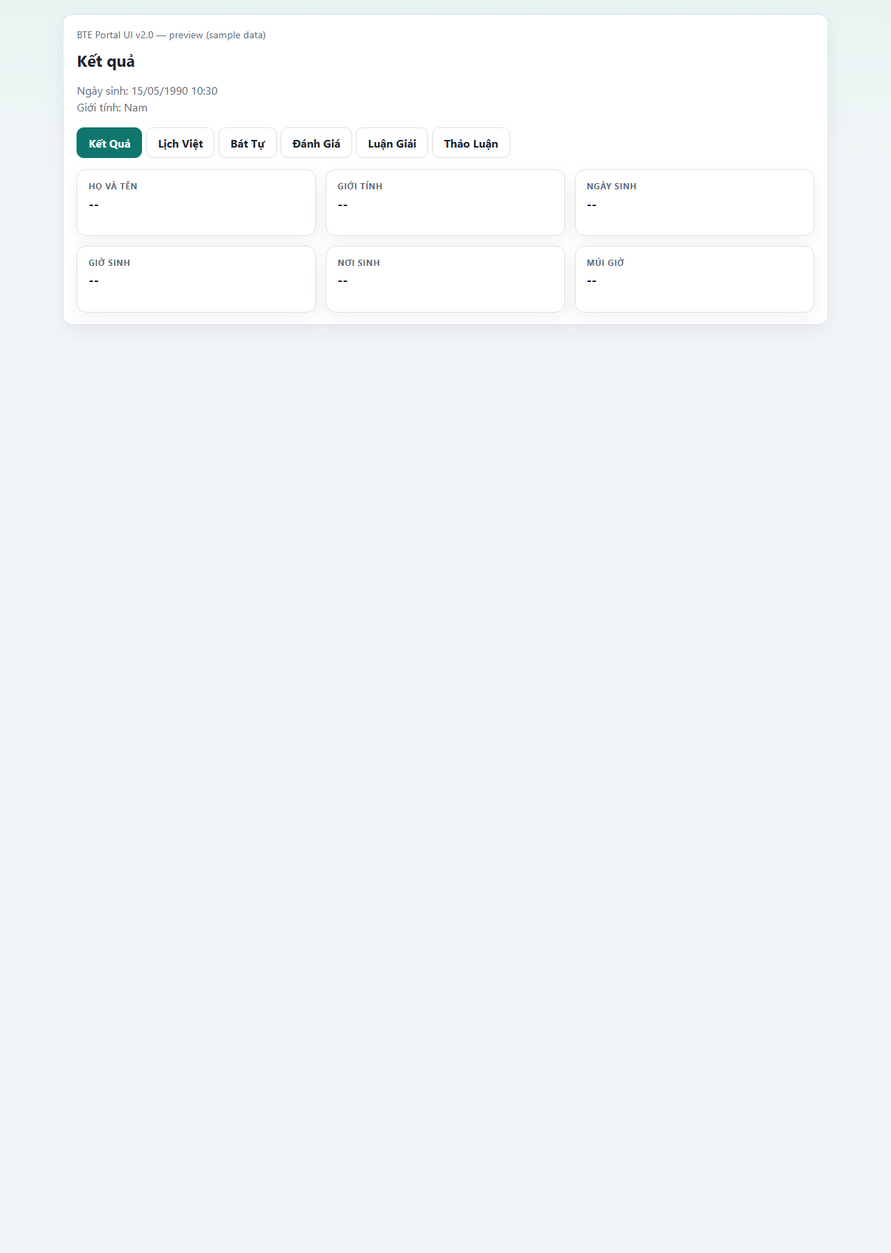
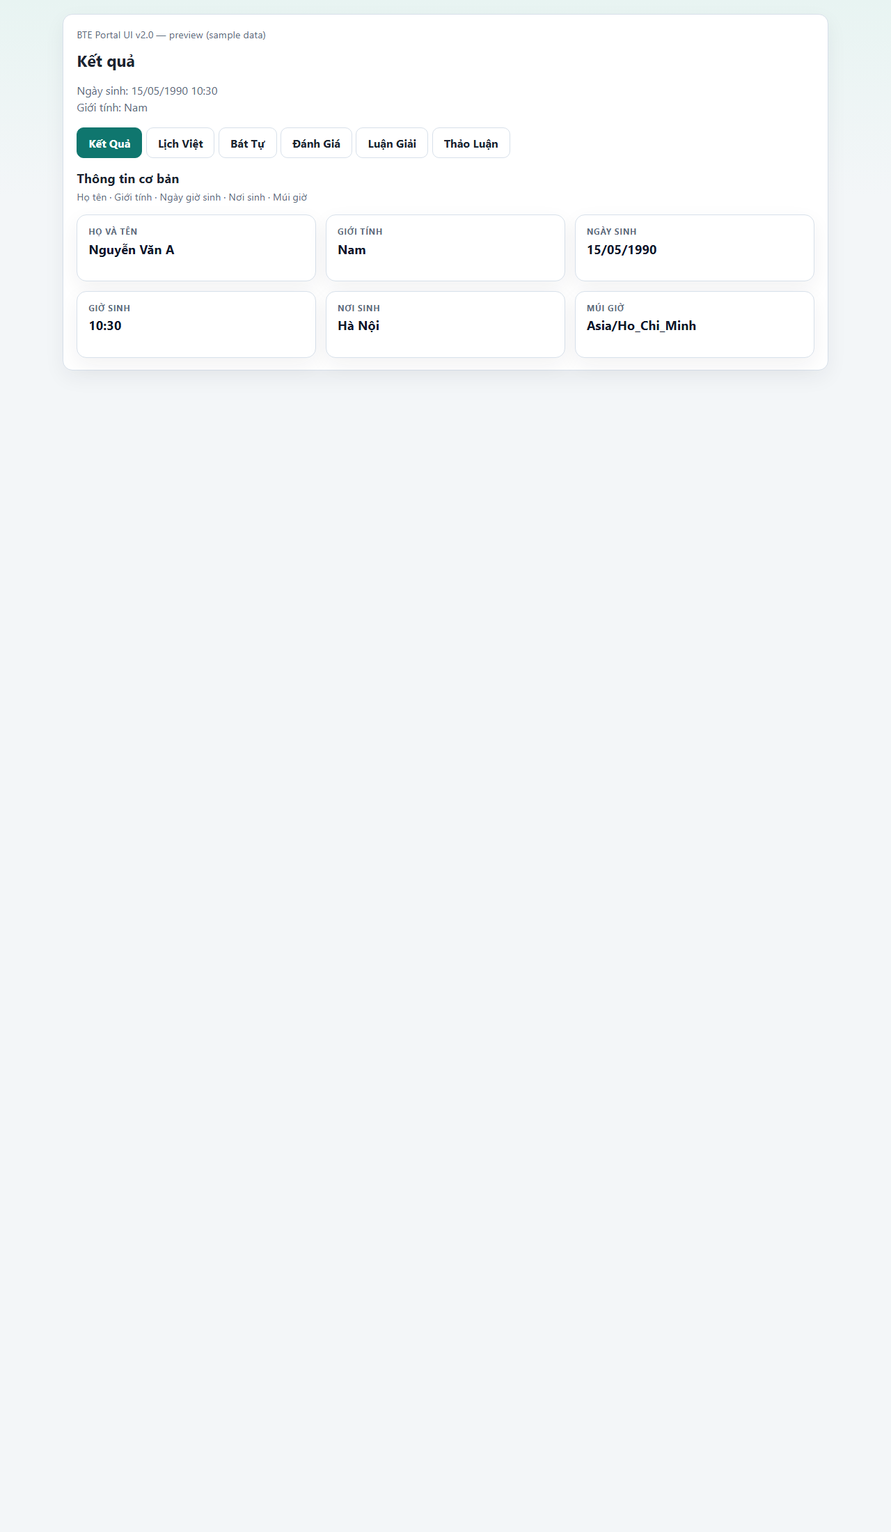
Use explicit window refs and refresh UI previews
Qualify global presenter/summarizer uses with window (basic_info.js, bazi.js, calendar.js, discussion.js) to avoid ReferenceError in strict/isolated contexts. Refresh UI v2 preview pages and screenshots (tab_basic.html, tab_bazi.html, tab_calendar.html, tab_discussion.html and related PNGs) with richer sample content, ARIA labels, headers and improved discussion/bazi/calendar fixtures for better accessibility and realistic documentation previews.

Changed region(s): [[0.0625, 0.0, 0.4688, 0.2178], [0.6562, 0.1244, 0.7812, 0.2178], [0.5, 0.0933, 0.5625, 0.1244]]

diff --git a/docs/reports/ui_v2_preview/tab_bazi.html b/docs/reports/ui_v2_preview/tab_bazi.html
@@ -1657,7 +1657,7 @@ body{padding:1.25rem;}
   <p class="muted result-meta-friendly">Ngày sinh: 15/05/1990 10:30
 Giới tính: Nam</p>
   <div class="tabs"><button class="tab" type="button">Kết Quả</button><button class="tab" type="button">Lịch Việt</button><button class="tab active" type="button">Bát Tự</button><button class="tab" type="button">Đánh Giá</button><button class="tab" type="button">Luận Giải</button><button class="tab" type="button">Thảo Luận</button></div>
-  <div class="stage-view"><section class="bte-bazi"><div class="bte-card-grid"><article class="bte-card bte-bazi-summary"><div class="bte-card-label">Nhật Chủ</div><div class="bte-card-value">--</div></article><article class="bte-card bte-bazi-summary"><div class="bte-card-label">Ngũ Hành Nhật Chủ</div><div class="bte-card-value">--</div></article><article class="bte-card bte-bazi-summary"><div class="bte-card-label">Âm Dương</div><div class="bte-card-value">--</div></article><article class="bte-card bte-bazi-summary"><div class="bte-card-label">Cân Xương Đoán Mệnh</div><div class="bte-card-value">--</div></article></div></section></div>
+  <div class="stage-view"><section class="bte-bazi" aria-label="Bát Tự"><header class="bte-calendar-head"><h2>Bát Tự</h2><p class="bte-calendar-sub">Nhật chủ · Tứ trụ · Phân tích · Thập thần · Thần sát</p></header><h3 class="bte-section-title">Tóm tắt</h3><div class="bte-card-grid bte-bazi-summary-grid"><article class="bte-card bte-bazi-summary bte-el-fire"><div class="bte-card-label">Nhật Chủ</div><div class="bte-card-value">Bính</div></article><article class="bte-card bte-bazi-summary bte-el-fire"><div class="bte-card-label">Ngũ Hành Nhật Chủ</div><div class="bte-card-value">Hỏa</div></article><article class="bte-card bte-bazi-summary"><div class="bte-card-label">Âm Dương</div><div class="bte-card-value">Dương</div></article><article class="bte-card bte-bazi-summary"><div class="bte-card-label">Cân Xương Đoán Mệnh</div><div class="bte-card-value">--</div></article></div><h3 class="bte-section-title">Tứ trụ</h3><div class="bte-pillar-grid"><article class="bte-card bte-pillar-card bte-el-metal"><div class="bte-pillar-head"><div class="bte-card-label">Năm</div><div class="bte-pillar-pair">Canh · Ngọ</div></div><div class="bte-bazi-rows"><div class="bte-bazi-row"><span class="bte-bazi-row-label">Thiên Can</span><span class="bte-bazi-row-value"><span class="bte-el-badge bte-el-metal">Canh (Kim)</span></span></div><div class="bte-bazi-row"><span class="bte-bazi-row-label">Địa Chi</span><span class="bte-bazi-row-value"><span class="bte-el-badge bte-el-fire">Ngọ (Hỏa)</span></span></div><div class="bte-bazi-row"><span class="bte-bazi-row-label">Tàng Can</span><span class="bte-bazi-row-value">Đinh, Kỷ</span></div><div class="bte-bazi-row"><span class="bte-bazi-row-label">Thập Thần</span><span class="bte-bazi-row-value">Thất Sát</span></div><div class="bte-bazi-row"><span class="bte-bazi-row-label">Trường Sinh</span><span class="bte-bazi-row-value">Đế Vượng</span></div><div class="bte-bazi-row"><span class="bte-bazi-row-label">Nạp Âm</span><span class="bte-bazi-row-value">Lộ Bàng Thổ</span></div></div></article><article class="bte-card bte-pillar-card bte-el-wood"><div class="bte-pillar-head"><div class="bte-card-label">Tháng</div><div class="bte-pillar-pair">Ất · Tỵ</div></div><div class="bte-bazi-rows"><div class="bte-bazi-row"><span class="bte-bazi-row-label">Thiên Can</span><span class="bte-bazi-row-value"><span class="bte-el-badge bte-el-wood">Ất (Mộc)</span></span></div><div class="bte-bazi-row"><span class="bte-bazi-row-label">Địa Chi</span><span class="bte-bazi-row-value"><span class="bte-el-badge bte-el-fire">Tỵ (Hỏa)</span></span></div><div class="bte-bazi-row"><span class="bte-bazi-row-label">Tàng Can</span><span class="bte-bazi-row-value">Bính, Mậu, Canh</span></div><div class="bte-bazi-row"><span class="bte-bazi-row-label">Thập Thần</span><span class="bte-bazi-row-value">Thương Quan</span></div><div class="bte-bazi-row"><span class="bte-bazi-row-label">Trường Sinh</span><span class="bte-bazi-row-value">Lâm Quan</span></div><div class="bte-bazi-row"><span class="bte-bazi-row-label">Nạp Âm</span><span class="bte-bazi-row-value">Phúc Đăng Hỏa</span></div></div></article><article class="bte-card bte-pillar-card bte-el-fire"><div class="bte-pillar-head"><div class="bte-card-label">Ngày</div><div class="bte-pillar-pair">Bính · Ngọ</div></div><div class="bte-bazi-rows"><div class="bte-bazi-row"><span class="bte-bazi-row-label">Thiên Can</span><span class="bte-bazi-row-value"><span class="bte-el-badge bte-el-fire">Bính (Hỏa)</span></span></div><div class="bte-bazi-row"><span class="bte-bazi-row-label">Địa Chi</span><span class="bte-bazi-row-value"><span class="bte-el-badge bte-el-fire">Ngọ (Hỏa)</span></span></div><div class="bte-bazi-row"><span class="bte-bazi-row-label">Tàng Can</span><span class="bte-bazi-row-value">Đinh, Kỷ</span></div><div class="bte-bazi-row"><span class="bte-bazi-row-label">Thập Thần</span><span class="bte-bazi-row-value">Tỷ Kiên</span></div><div class="bte-bazi-row"><span class="bte-bazi-row-label">Trường Sinh</span><span class="bte-bazi-row-value">Đế Vượng</span></div><div class="bte-bazi-row"><span class="bte-bazi-row-label">Nạp Âm</span><span class="bte-bazi-row-value">Thiên Hà Thủy</span></div></div></article><article class="bte-card bte-pillar-card bte-el-water"><div class="bte-pillar-head"><div class="bte-card-label">Giờ</div><div class="bte-pillar-pair">Quý · Tỵ</div></div><div class="bte-bazi-rows"><div class="bte-bazi-row"><span class="bte-bazi-row-label">Thiên Can</span><span class="bte-bazi-row-value"><span class="bte-el-badge bte-el-water">Quý (Thủy)</span></span></div><div class="bte-bazi-row"><span class="bte-bazi-row-label">Địa Chi</span><span class="bte-bazi-row-value"><span class="bte-el-badge bte-el-fire">Tỵ (Hỏa)</span></span></div><div class="bte-bazi-row"><span class="bte-bazi-row-label">Tàng Can</span><span class="bte-bazi-row-value">Bính, Mậu, Canh</span></div><div class="bte-bazi-row"><span class="bte-bazi-row-label">Thập Thần</span><span class="bte-bazi-row-value">Chính Ấn</span></div><div class="bte-bazi-row"><span class="bte-bazi-row-label">Trường Sinh</span><span class="bte-bazi-row-value">Thai</span></div><div class="bte-bazi-row"><span class="bte-bazi-row-label">Nạp Âm</span><span class="bte-bazi-row-value">Trường Lưu Thủy</span></div></div></article></div><h3 class="bte-section-title">Phân tích Bát Tự</h3><div class="bte-card-grid bte-bazi-analysis-grid"><article class="bte-card"><div class="bte-card-label">Thân Vượng / Nhược</div><div class="bte-card-value">Thân Vượng</div></article><article class="bte-card bte-el-dist-card"><div class="bte-card-label">Phân bố Ngũ Hành</div><div class="bte-el-bars"><div class="bte-el-bar-row bte-el-wood"><span class="bte-el-bar-label">Wood</span><span class="bte-el-bar-blocks" aria-hidden="true">■■</span><div class="bte-el-bar-track"><div class="bte-el-bar-fill" style="width:29%"></div></div><span class="bte-el-bar-value">2</span></div><div class="bte-el-bar-row bte-el-fire"><span class="bte-el-bar-label">Fire</span><span class="bte-el-bar-blocks" aria-hidden="true">■■■■■■■</span><div class="bte-el-bar-track"><div class="bte-el-bar-fill" style="width:100%"></div></div><span class="bte-el-bar-value">7</span></div><div class="bte-el-bar-row bte-el-earth"><span class="bte-el-bar-label">Earth</span><span class="bte-el-bar-blocks" aria-hidden="true">■■■■</span><div class="bte-el-bar-track"><div class="bte-el-bar-fill" style="width:57%"></div></div><span class="bte-el-bar-value">4</span></div><div class="bte-el-bar-row bte-el-metal"><span class="bte-el-bar-label">Metal</span><span class="bte-el-bar-blocks" aria-hidden="true">■■■</span><div class="bte-el-bar-track"><div class="bte-el-bar-fill" style="width:43%"></div></div><span class="bte-el-bar-value">3</span></div><div class="bte-el-bar-row bte-el-water"><span class="bte-el-bar-label">Water</span><span class="bte-el-bar-blocks" aria-hidden="true">■</span><div class="bte-el-bar-track"><div class="bte-el-bar-fill" style="width:14%"></div></div><span class="bte-el-bar-value">1</span></div></div></article><article class="bte-card"><div class="bte-card-label">Dụng Thần</div><div class="bte-card-value">Thủy</div></article><article class="bte-card"><div class="bte-card-label">Hỷ Thần</div><div class="bte-card-value">Kim</div></article></div><h3 class="bte-section-title">Thập Thần</h3><div class="bte-card bte-checklist-card"><ul class="bte-checklist"><li class="bte-check bte-check-neg" data-state="absent"><span class="bte-check-mark" aria-hidden="true">✗</span><span class="bte-check-label">Chính Quan</span></li><li class="bte-check bte-check-pos" data-state="present"><span class="bte-check-mark" aria-hidden="true">✓</span><span class="bte-check-label">Thất Sát</span></li><li class="bte-check bte-check-neg" data-state="absent"><span class="bte-check-mark" aria-hidden="true">✗</span><span class="bte-check-label">Chính Tài</span></li><li class="bte-check bte-check-neg" data-state="absent"><span class="bte-check-mark" aria-hidden="true">✗</span><span class="bte-check-label">Thiên Tài</span></li><li class="bte-check bte-check-pos" data-state="present"><span class="bte-check-mark" aria-hidden="true">✓</span><span class="bte-check-label">Chính Ấn</span></li><li class="bte-check bte-check-neg" data-state="absent"><span class="bte-check-mark" aria-hidden="true">✗</span><span class="bte-check-label">Thiên Ấn</span></li><li class="bte-check bte-check-neg" data-state="absent"><span class="bte-check-mark" aria-hidden="true">✗</span><span class="bte-check-label">Thực Thần</span></li><li class="bte-check bte-check-pos" data-state="present"><span class="bte-check-mark" aria-hidden="true">✓</span><span class="bte-check-label">Thương Quan</span></li><li class="bte-check bte-check-pos" data-state="present"><span class="bte-check-mark" aria-hidden="true">✓</span><span class="bte-check-label">Tỷ Kiên</span></li><li class="bte-check bte-check-neg" data-state="absent"><span class="bte-check-mark" aria-hidden="true">✗</span><span class="bte-check-label">Kiếp Tài</span></li></ul></div><h3 class="bte-section-title">Thần Sát</h3><div class="bte-card bte-checklist-card"><ul class="bte-checklist"><li class="bte-check bte-check-pos" data-state="present"><span class="bte-check-mark" aria-hidden="true">✓</span><span class="bte-check-label">Hoa Cái</span></li><li class="bte-check bte-check-pos" data-state="present"><span class="bte-check-mark" aria-hidden="true">✓</span><span class="bte-check-label">Thiên Ất</span></li><li class="bte-check bte-check-pos" data-state="present"><span class="bte-check-mark" aria-hidden="true">✓</span><span class="bte-check-label">Văn Xương</span></li><li class="bte-check bte-check-pos" data-state="present"><span class="bte-check-mark" aria-hidden="true">✓</span><span class="bte-check-label">Quốc Ấn</span></li><li class="bte-check bte-check-neg" data-state="absent"><span class="bte-check-mark" aria-hidden="true">✗</span><span class="bte-check-label">Dịch Mã</span></li><li class="bte-check bte-check-neg" data-state="absent"><span class="bte-check-mark" aria-hidden="true">✗</span><span class="bte-check-label">Cô Thần</span></li><li class="bte-check bte-check-neg" data-state="absent"><span class="bte-check-mark" aria-hidden="true">✗</span><span class="bte-check-label">Quả Tú</span></li><li class="bte-check bte-check-neg" data-state="absent"><span class="bte-check-mark" aria-hidden="true">✗</span><span class="bte-check-label">Thiên Đức</span></li><li class="bte-check bte-check-neg" data-state="absent"><span class="bte-check-mark" aria-hidden="true">✗</span><span class="bte-check-label">Nguyệt Đức</span></li><li class="bte-check bte-check-neg" data-state="absent"><span class="bte-check-mark" aria-hidden="true">✗</span><span class="bte-check-label">Hồng Loan</span></li><li class="bte-check bte-check-neg" data-state="absent"><span class="bte-check-mark" aria-hidden="true">✗</span><span class="bte-check-label">Đào Hoa</span></li><li class="bte-check bte-check-neg" data-state="absent"><span class="bte-check-mark" aria-hidden="true">✗</span><span class="bte-check-label">Quý Nhân</span></li><li class="bte-check bte-check-neg" data-state="absent"><span class="bte-check-mark" aria-hidden="true">✗</span><span class="bte-check-label">Kiếp Sát</span></li></ul></div></section></div>
 </div>
 </body>
 </html>

diff --git a/docs/reports/ui_v2_preview/tab_discussion.html b/docs/reports/ui_v2_preview/tab_discussion.html
@@ -1657,7 +1657,9 @@ body{padding:1.25rem;}
   <p class="muted result-meta-friendly">Ngày sinh: 15/05/1990 10:30
 Giới tính: Nam</p>
   <div class="tabs"><button class="tab" type="button">Kết Quả</button><button class="tab" type="button">Lịch Việt</button><button class="tab" type="button">Bát Tự</button><button class="tab" type="button">Đánh Giá</button><button class="tab" type="button">Luận Giải</button><button class="tab active" type="button">Thảo Luận</button></div>
-  <div class="stage-view"><div class="bte-discussion"><p class="muted">--</p></div></div>
+  <div class="stage-view"><div class="bte-discussion"><section class="bte-card bte-discuss-context" aria-label="Ngữ cảnh phân tích"><h3>Ngữ cảnh phân tích</h3><p class="muted">Các kết luận bên dưới nên được đọc cùng ngữ cảnh Tứ trụ, Ngũ hành, Thập thần, Thần sát và Dụng thần.</p><div class="bte-discuss-chips"><div class="bte-discuss-chip"><span class="bte-discuss-chip-k">Năm</span><span class="bte-discuss-chip-v">Canh Ngọ</span></div><div class="bte-discuss-chip"><span class="bte-discuss-chip-k">Tháng</span><span class="bte-discuss-chip-v">Ất Tỵ</span></div><div class="bte-discuss-chip"><span class="bte-discuss-chip-k">Ngày</span><span class="bte-discuss-chip-v">Bính Ngọ</span></div><div class="bte-discuss-chip"><span class="bte-discuss-chip-k">Giờ</span><span class="bte-discuss-chip-v">Quý Tỵ</span></div><div class="bte-discuss-chip"><span class="bte-discuss-chip-k">Nhật chủ / Ngũ hành</span><span class="bte-discuss-chip-v">Bính · Hỏa</span></div><div class="bte-discuss-chip"><span class="bte-discuss-chip-k">Thập thần</span><span class="bte-discuss-chip-v">Thất Sát, Thương Quan, Tỷ Kiên, Chính Ấn</span></div><div class="bte-discuss-chip"><span class="bte-discuss-chip-k">Thần sát</span><span class="bte-discuss-chip-v">Hoa Cái, Thiên Ất, Văn Xương, Quốc Ấn</span></div><div class="bte-discuss-chip"><span class="bte-discuss-chip-k">Dụng thần</span><span class="bte-discuss-chip-v">Thủy</span></div></div></section><section class="bte-narr" aria-label="Thảo Luận"><textarea class="bte-narr-copy-source" hidden readonly>Kết luận ngắn
+
+Dựa trên Tứ trụ Bính Ngọ và Ngũ hành Hỏa thịnh, kết hợp Thập thần Thất Sát/Chính Ấn cùng Thần sát Hoa Cái · Văn Xương, Dụng thần Thủy giúp điều hòa cục diện.</textarea><header class="bte-calendar-head"><h2>Thảo Luận</h2><p class="bte-calendar-sub">Luận giải AI dựa trên Tứ trụ · Ngũ hành · Thập thần · Thần sát · Dụng thần</p></header><div class="bte-narr-toolbar no-print"><button type="button" class="secondary" data-narr-action="copy">Sao chép</button><button type="button" class="secondary" data-narr-action="print">In</button><button type="button" class="secondary" data-narr-action="collapse-all">Thu gọn tất cả</button><button type="button" class="secondary" data-narr-action="expand-all">Mở rộng tất cả</button></div><h1 class="bte-narr-title">Thảo luận AI</h1><article class="bte-narr-report"><section class="bte-narr-section" data-narr-section="narr-ket-luan-ngan-0"><header class="bte-narr-section-head"><h2 id="narr-ket-luan-ngan-0">Kết luận ngắn</h2><button type="button" class="bte-narr-toggle secondary" data-narr-toggle="narr-ket-luan-ngan-0" aria-expanded="true">Thu gọn</button></header><div class="bte-narr-section-body" data-narr-body="narr-ket-luan-ngan-0"><p class="bte-narr-highlight">Dựa trên <strong>Tứ trụ</strong> Bính Ngọ và <strong>Ngũ hành</strong> Hỏa thịnh, kết hợp <strong>Thập thần</strong> Thất Sát/Chính Ấn cùng <strong>Thần sát</strong> Hoa Cái · Văn Xương, <strong>Dụng thần</strong> Thủy giúp điều hòa cục diện.</p></div></section></article></section></div></div>
 </div>
 </body>
 </html>

diff --git a/docs/reports/ui_v2_preview/tab_calendar.html b/docs/reports/ui_v2_preview/tab_calendar.html
@@ -1657,7 +1657,11 @@ body{padding:1.25rem;}
   <p class="muted result-meta-friendly">Ngày sinh: 15/05/1990 10:30
 Giới tính: Nam</p>
   <div class="tabs"><button class="tab" type="button">Kết Quả</button><button class="tab active" type="button">Lịch Việt</button><button class="tab" type="button">Bát Tự</button><button class="tab" type="button">Đánh Giá</button><button class="tab" type="button">Luận Giải</button><button class="tab" type="button">Thảo Luận</button></div>
-  <div class="stage-view"><section class="bte-calendar"><div class="bte-card-grid"><article class="bte-card"><div class="bte-card-label">Ngày dương</div><div class="bte-card-value">--</div></article><article class="bte-card"><div class="bte-card-label">Ngày âm</div><div class="bte-card-value">--</div></article><article class="bte-card"><div class="bte-card-label">Lịch Can – Chi</div><div class="bte-card-value">--</div></article><article class="bte-card"><div class="bte-card-label">Tiết khí</div><div class="bte-card-value">--</div></article><article class="bte-card"><div class="bte-card-label">Cung / Mệnh Quái</div><div class="bte-card-value">--</div></article><article class="bte-card"><div class="bte-card-label">Ngũ Hành Cung Quái</div><div class="bte-card-value">--</div></article><article class="bte-card"><div class="bte-card-label">Nhóm Trạch</div><div class="bte-card-value">--</div></article><article class="bte-card"><div class="bte-card-label">Múi giờ</div><div class="bte-card-value">--</div></article><article class="bte-card"><div class="bte-card-label">Tháng nhuận</div><div class="bte-card-value">--</div></article></div></section></div>
+  <div class="stage-view"><section class="bte-calendar" aria-label="Lịch Việt"><header class="bte-calendar-head"><h2>Lịch Việt</h2><p class="bte-calendar-sub">Dương lịch · Âm lịch · Can Chi · Tiết khí · Cung quái</p></header><div class="bte-card-grid"><article class="bte-card"><div class="bte-card-label">Ngày dương</div><div class="bte-card-value">15/05/1990
+10:30</div><div class="bte-card-hint">Ngày dương lịch</div></article><article class="bte-card"><div class="bte-card-label">Ngày âm</div><div class="bte-card-value">21/04 Canh Ngọ</div><div class="bte-card-hint">Ngày âm lịch</div></article><article class="bte-card"><div class="bte-card-label">Lịch Can – Chi</div><div class="bte-card-value">Năm: Canh Ngọ
+Tháng: Ất Tỵ
+Ngày: Bính Ngọ
+Giờ: Quý Tỵ</div></article><article class="bte-card"><div class="bte-card-label">Tiết khí</div><div class="bte-card-value">Lập Hạ</div><div class="bte-card-hint">Tiết khí</div></article><article class="bte-card"><div class="bte-card-label">Cung / Mệnh Quái</div><div class="bte-card-value">Đoài</div></article><article class="bte-card"><div class="bte-card-label">Ngũ Hành Cung Quái</div><div class="bte-card-value">Đoài (Kim)</div></article><article class="bte-card"><div class="bte-card-label">Nhóm Trạch</div><div class="bte-card-value">Tây Tứ Trạch</div></article><article class="bte-card"><div class="bte-card-label">Múi giờ</div><div class="bte-card-value">Asia/Ho_Chi_Minh</div><div class="bte-card-hint">Múi giờ</div></article><article class="bte-card"><div class="bte-card-label">Tháng nhuận</div><div class="bte-card-value">Không</div><div class="bte-card-hint">Không nhuận</div></article></div></section></div>
 </div>
 </body>
 </html>

diff --git a/docs/reports/ui_v2_preview/tab_basic.html b/docs/reports/ui_v2_preview/tab_basic.html
@@ -1657,7 +1657,7 @@ body{padding:1.25rem;}
   <p class="muted result-meta-friendly">Ngày sinh: 15/05/1990 10:30
 Giới tính: Nam</p>
   <div class="tabs"><button class="tab active" type="button">Kết Quả</button><button class="tab" type="button">Lịch Việt</button><button class="tab" type="button">Bát Tự</button><button class="tab" type="button">Đánh Giá</button><button class="tab" type="button">Luận Giải</button><button class="tab" type="button">Thảo Luận</button></div>
-  <div class="stage-view"><section class="bte-basic"><div class="bte-card-grid"><article class="bte-card"><div class="bte-card-label">Họ và tên</div><div class="bte-card-value">--</div></article><article class="bte-card"><div class="bte-card-label">Giới tính</div><div class="bte-card-value">--</div></article><article class="bte-card"><div class="bte-card-label">Ngày sinh</div><div class="bte-card-value">--</div></article><article class="bte-card"><div class="bte-card-label">Giờ sinh</div><div class="bte-card-value">--</div></article><article class="bte-card"><div class="bte-card-label">Nơi sinh</div><div class="bte-card-value">--</div></article><article class="bte-card"><div class="bte-card-label">Múi giờ</div><div class="bte-card-value">--</div></article></div></section></div>
+  <div class="stage-view"><section class="bte-basic" aria-label="Thông tin cơ bản"><header class="bte-calendar-head"><h2>Thông tin cơ bản</h2><p class="bte-calendar-sub">Họ tên · Giới tính · Ngày giờ sinh · Nơi sinh · Múi giờ</p></header><div class="bte-card-grid"><article class="bte-card"><div class="bte-card-label">Họ và tên</div><div class="bte-card-value">Nguyễn Văn A</div></article><article class="bte-card"><div class="bte-card-label">Giới tính</div><div class="bte-card-value">Nam</div></article><article class="bte-card"><div class="bte-card-label">Ngày sinh</div><div class="bte-card-value">15/05/1990</div></article><article class="bte-card"><div class="bte-card-label">Giờ sinh</div><div class="bte-card-value">10:30</div></article><article class="bte-card"><div class="bte-card-label">Nơi sinh</div><div class="bte-card-value">Hà Nội</div></article><article class="bte-card"><div class="bte-card-label">Múi giờ</div><div class="bte-card-value">Asia/Ho_Chi_Minh</div></article></div></section></div>
 </div>
 </body>
 </html>

diff --git a/applications/customer_portal/static/js/presenters/discussion.js b/applications/customer_portal/static/js/presenters/discussion.js
@@ -141,8 +141,8 @@
       var full = (options && options.data) || {};
       var context = contextStrip(full);
       var body = "";
-      if (window.BtePresenters && typeof BtePresenters.narrative === "function") {
-        body = BtePresenters.narrative(narrative);
+      if (window.BtePresenters && typeof window.BtePresenters.narrative === "function") {
+        body = window.BtePresenters.narrative(narrative);
         // Retitle narrative shell for Discussion tab when possible.
         body = body
           .replace(

diff --git a/applications/customer_portal/static/js/presenters/calendar.js b/applications/customer_portal/static/js/presenters/calendar.js
@@ -162,8 +162,8 @@
 
   function resolveBatTrach(options, cal) {
     var bt =
-      window.BtePresenters && BtePresenters.resolveBatTrach
-        ? BtePresenters.resolveBatTrach((options && options.data) || {})
+      window.BtePresenters && window.BtePresenters.resolveBatTrach
+        ? window.BtePresenters.resolveBatTrach((options && options.data) || {})
         : null;
     if (bt && (bt.cung_phi !== MISSING || bt.menh_quai !== MISSING || bt.nhom_trach !== MISSING)) {
       return bt;

diff --git a/applications/customer_portal/static/js/presenters/bazi.js b/applications/customer_portal/static/js/presenters/bazi.js
@@ -351,9 +351,9 @@
 
   function resolveCanXuong(fullData) {
     var cx = null;
-    if (window.BteSummaryBuilder && typeof BteSummaryBuilder.build === "function") {
+    if (window.BteSummaryBuilder && typeof window.BteSummaryBuilder.build === "function") {
       try {
-        var model = BteSummaryBuilder.build(fullData || {}, {});
+        var model = window.BteSummaryBuilder.build(fullData || {}, {});
         cx = model && model.can_xuong;
       } catch (_) {
         cx = null;

diff --git a/applications/customer_portal/static/js/presenters/basic_info.js b/applications/customer_portal/static/js/presenters/basic_info.js
@@ -39,8 +39,8 @@
   function renderBasicInfo(data, options) {
     try {
       var info =
-        window.BtePresenters && BtePresenters.resolveChartInfo
-          ? BtePresenters.resolveChartInfo(data, (options && options.input) || {})
+        window.BtePresenters && window.BtePresenters.resolveChartInfo
+          ? window.BtePresenters.resolveChartInfo(data, (options && options.input) || {})
           : {
               full_name: MISSING,
               gender: MISSING,
